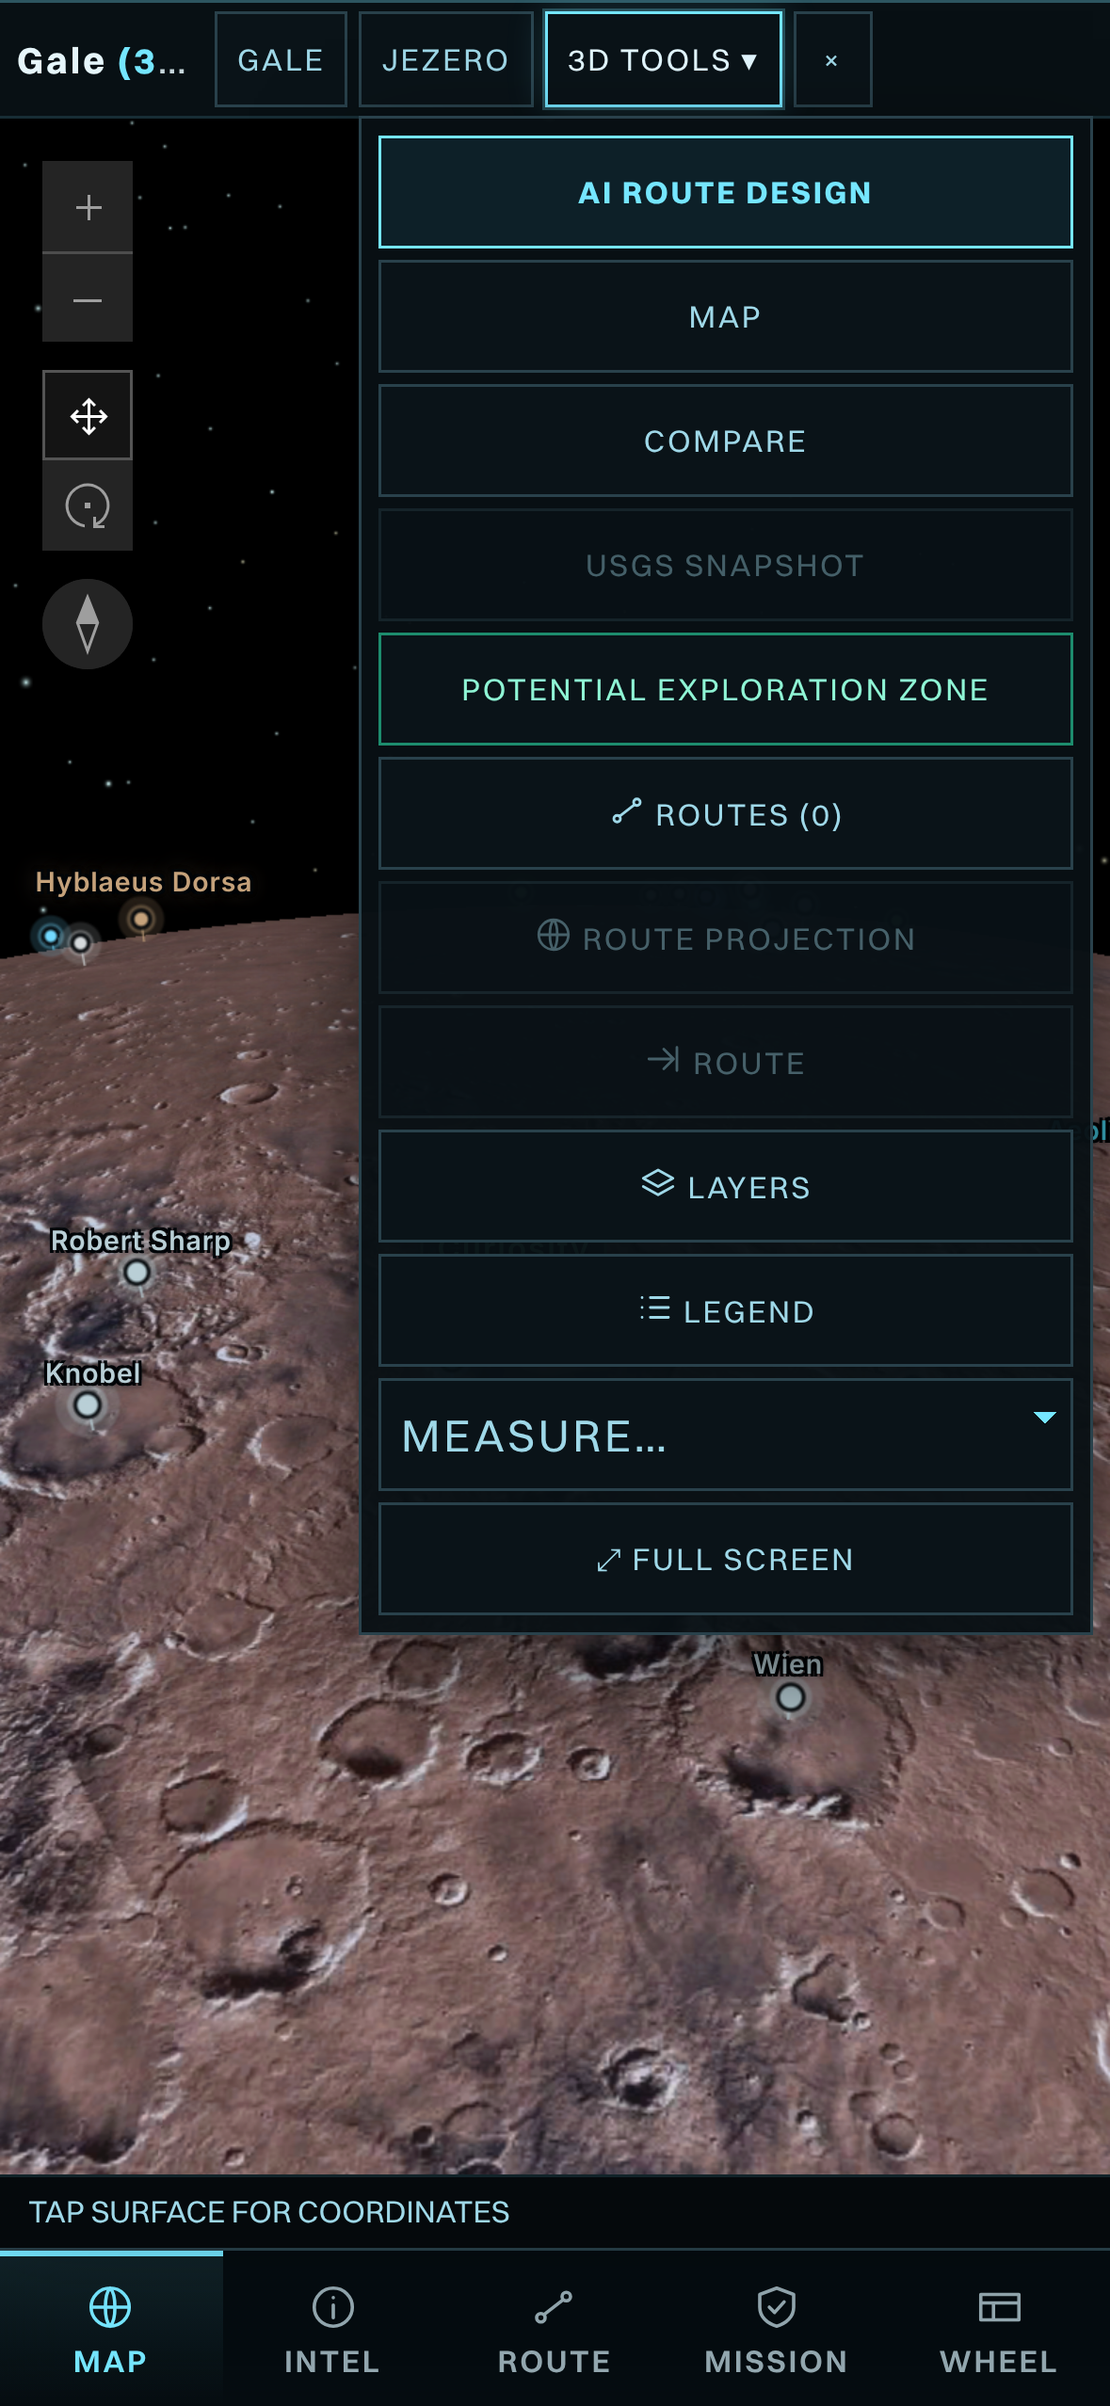
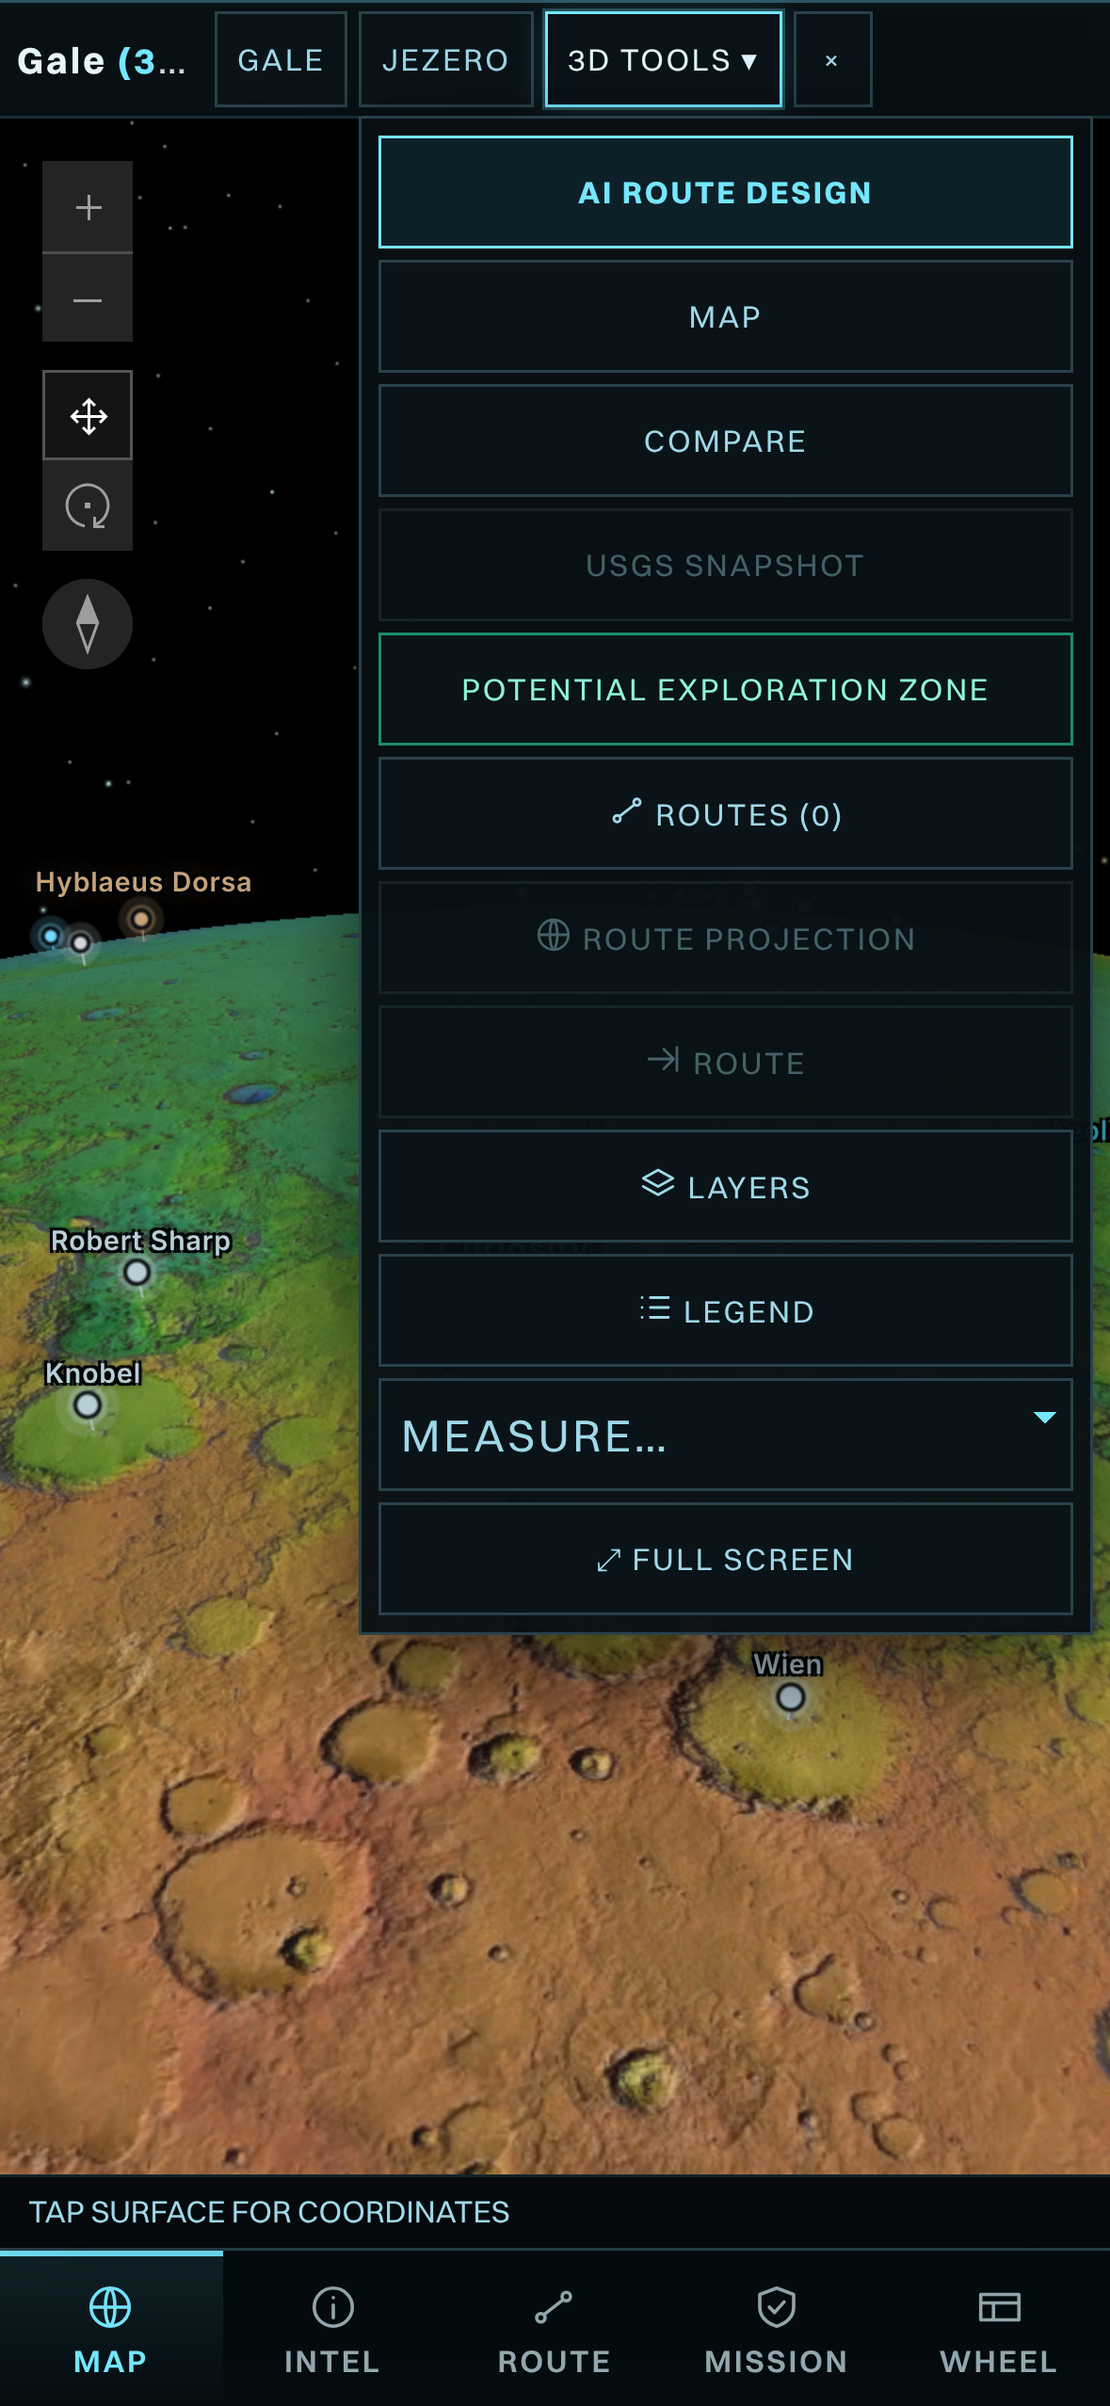
Install as app (PWA), sensitivity route fidelity, device checks and README
- Web app manifest, team-logo icons (192/512/maskable/apple-touch), app service worker
  that caches no data and shows an offline page; INSTALL AS APP in the menu, wheel and
  Command Index (iOS gets the Add to Home Screen steps)
- Sensitivity: shape-preserving Douglas-Peucker route simplification at the plan's fine
  resolution; a note when the re-evaluated status differs from the plan's
- Status reasons now name the slope limit when cells exceed it (regression test)
- Device e2e: shared layers across ArcGIS and 2D, multi-stop, sensitivity, tour, SOL card,
  installability; new screenshots; unit tests for the layer store, routePolyline, brief escaping

Claude-Session: https://claude.ai/code/session_01WGYgWxKKb8sWn1uuapz3HA

diff --git a/frontend/src/pwa/installStore.js b/frontend/src/pwa/installStore.js
@@ -1,0 +1,69 @@
+/*
+ * Install as app (PWA). Registers the app service worker in normal production builds (the static demo has its
+ * own) and keeps the browser's deferred install prompt so the menu, wheel and Command Index can offer INSTALL.
+ * iOS has no prompt: there the action explains Share -> Add to Home Screen.
+ */
+import { useSyncExternalStore } from "react";
+
+import { DEMO_PACK } from "../demo/demoMode";
+
+let deferred = null;
+let installed = false;
+const listeners = new Set();
+const emit = () => listeners.forEach((fn) => fn());
+
+const standalone = () =>
+  typeof window !== "undefined" &&
+  (window.matchMedia?.("(display-mode: standalone)").matches || window.navigator.standalone === true);
+
+export const isIos = () =>
+  typeof navigator !== "undefined" &&
+  (/iPad|iPhone|iPod/.test(navigator.userAgent) || (navigator.platform === "MacIntel" && navigator.maxTouchPoints > 1));
+
+if (typeof window !== "undefined") {
+  window.addEventListener("beforeinstallprompt", (event) => {
+    event.preventDefault();
+    deferred = event;
+    emit();
+  });
+  window.addEventListener("appinstalled", () => {
+    deferred = null;
+    installed = true;
+    emit();
+  });
+  if (import.meta.env.PROD && !DEMO_PACK && "serviceWorker" in navigator) {
+    window.addEventListener("load", () => navigator.serviceWorker.register("/app-sw.js").catch(() => {}));
+  }
+}
+
+let snap = null;
+function snapshot() {
+  const next = { canPrompt: Boolean(deferred), installed: installed || standalone(), ios: isIos() };
+  if (!snap || snap.canPrompt !== next.canPrompt || snap.installed !== next.installed || snap.ios !== next.ios) snap = next;
+  return snap;
+}
+
+export const installStore = {
+  get: snapshot,
+  subscribe(fn) {
+    listeners.add(fn);
+    return () => listeners.delete(fn);
+  },
+  /* Returns a message for the notice line, or "" when the browser's own dialog took over. */
+  async install() {
+    const s = snapshot();
+    if (s.installed) return "NeuroNexus is already installed as an app on this device.";
+    if (deferred) {
+      const event = deferred;
+      deferred = null;
+      emit();
+      await event.prompt();
+      const choice = await event.userChoice.catch(() => null);
+      return choice?.outcome === "accepted" ? "" : "Install dismissed. INSTALL APP stays in the menu.";
+    }
+    if (s.ios) return "On iPhone or iPad: tap Share, then Add to Home Screen.";
+    return "Use the browser menu: Install app (Chrome, Edge) or Add to Dock (Safari on macOS).";
+  },
+};
+
+export const useInstall = () => useSyncExternalStore(installStore.subscribe, installStore.get, installStore.get);

diff --git a/frontend/src/__tests__/sharedFeatures.test.js b/frontend/src/__tests__/sharedFeatures.test.js
@@ -1,0 +1,58 @@
+import { describe, expect, it } from "vitest";
+
+import { activeLayers, LAYER_BY_ID } from "../components/layers/layerCatalog";
+import { layerOpacity, layerStore } from "../components/layers/layerStore";
+import { routePolyline } from "../marswalk/decision";
+import { buildVisualBriefHtml } from "../marswalk/visualBrief";
+
+describe("shared layer store", () => {
+  it("one toggle reaches every map that can draw the layer", () => {
+    layerStore.setMany({ slope: false });
+    layerStore.toggle("slope");
+    const v = layerStore.get().visibility;
+    expect(v.slope).toBe(true);
+    for (const map of LAYER_BY_ID.slope.maps) expect(activeLayers(v, map).map((l) => l.id)).toContain("slope");
+  });
+
+  it("clamps opacity and ignores non-numbers", () => {
+    layerStore.setOpacity("slope", 4);
+    expect(layerOpacity("slope")).toBe(1);
+    layerStore.setOpacity("slope", 0);
+    expect(layerOpacity("slope")).toBe(0.05);
+    layerStore.setOpacity("slope", "x");
+    expect(layerOpacity("slope")).toBe(0.05);
+  });
+});
+
+describe("routePolyline", () => {
+  const zigzag = Array.from({ length: 2000 }, (_, i) => [137.38 + i * 1e-5, -4.82 + (i % 2) * 2e-5]);
+
+  it("keeps the endpoints and fits the 500-vertex evaluate cap", () => {
+    const line = routePolyline({ geometry: { coordinates: zigzag } });
+    expect(line.length).toBeLessThanOrEqual(480);
+    expect(line[0]).toEqual([-4.82, 137.38]);
+    expect(line.at(-1)).toEqual([Math.round(zigzag.at(-1)[1] * 1e6) / 1e6, Math.round(zigzag.at(-1)[0] * 1e6) / 1e6]);
+  });
+
+  it("keeps every vertex of a short route and drops a straight run to its ends", () => {
+    const short = [[137.38, -4.82], [137.381, -4.821], [137.382, -4.82]];
+    expect(routePolyline({ geometry: { coordinates: short } })).toHaveLength(3);
+    const straight = Array.from({ length: 900 }, (_, i) => [137.38 + i * 1e-5, -4.82]);
+    expect(routePolyline({ geometry: { coordinates: straight } })).toHaveLength(2);
+  });
+});
+
+describe("visual brief", () => {
+  it("escapes text from the plan and the brief", () => {
+    const html = buildVisualBriefHtml({
+      brief: { values: { "<b>x</b>": { value: "<script>", unit: "m" } }, sources: [] },
+      plan: { status: { value: "REVIEW REQUIRED", reasons: ["<img src=x onerror=1>"] }, geometry: { coordinates: [] }, segments: [] },
+      frame: { lat: -4.82, lon: 137.38, halfWidth: 1000, res: 2 },
+      siteLabel: "<Gale>",
+      stops: [],
+    });
+    expect(html).not.toMatch(/<script>|<img src=x/);
+    expect(html).toContain("&lt;Gale&gt;");
+    expect(html).not.toMatch(/\bSAFE\b/);
+  });
+});

diff --git a/frontend/src/marswalk/decision.js b/frontend/src/marswalk/decision.js
@@ -35,15 +35,49 @@ export function seasonStatuses(routeStatus, taus) {
 const round6 = (v) => Math.round(v * 1e6) / 1e6;
 
 /* The plan's route as an evaluate polyline: [lat, lon], at most `max` vertices, no repeated vertices. */
-export function routePolyline(plan, max = 400) {
+/* Douglas-Peucker on local metres: indices of the vertices kept within tol metres of the line. */
+function simplify(xy, tol) {
+  const keep = new Uint8Array(xy.length);
+  keep[0] = 1;
+  keep[xy.length - 1] = 1;
+  const stack = [[0, xy.length - 1]];
+  while (stack.length) {
+    const [a, b] = stack.pop();
+    const [ax, ay] = xy[a];
+    const dx = xy[b][0] - ax;
+    const dy = xy[b][1] - ay;
+    const len2 = dx * dx + dy * dy;
+    let worst = -1;
+    let at = -1;
+    for (let i = a + 1; i < b; i += 1) {
+      const t = len2 ? Math.max(0, Math.min(1, ((xy[i][0] - ax) * dx + (xy[i][1] - ay) * dy) / len2)) : 0;
+      const d = Math.hypot(xy[i][0] - ax - t * dx, xy[i][1] - ay - t * dy);
+      if (d > worst) [worst, at] = [d, i];
+    }
+    if (worst > tol) {
+      keep[at] = 1;
+      stack.push([a, at], [at, b]);
+    }
+  }
+  return xy.map((_, i) => i).filter((i) => keep[i]);
+}
+
+/*
+ * The plan's route as [lat, lon] vertices for /marswalk/evaluate (at most 500). Shape-preserving: the tolerance
+ * starts at 0.25 m and doubles only until the vertex count fits, so the re-evaluated line follows the planned one
+ * instead of cutting corners across steeper cells.
+ */
+export function routePolyline(plan, max = 480) {
   const coords = plan?.geometry?.coordinates ?? [];
   if (coords.length < 2) return [];
-  const step = Math.max(1, Math.ceil(coords.length / max));
-  const picked = coords.filter((_, i) => i % step === 0);
-  if (picked[picked.length - 1] !== coords[coords.length - 1]) picked.push(coords[coords.length - 1]);
+  const lat0 = (coords[0][1] * Math.PI) / 180;
+  const m = 3389500 * (Math.PI / 180);
+  const xy = coords.map(([lon, lat]) => [lon * m * Math.cos(lat0), lat * m]);
+  let idx = coords.map((_, i) => i);
+  for (let tol = 0.25; idx.length > max && tol < 1e4; tol *= 2) idx = simplify(xy, tol);
   const out = [];
-  for (const [lon, lat] of picked) {
-    const p = [round6(lat), round6(lon)];
+  for (const i of idx) {
+    const p = [round6(coords[i][1]), round6(coords[i][0])];
     const prev = out[out.length - 1];
     if (!prev || prev[0] !== p[0] || prev[1] !== p[1]) out.push(p);
   }

diff --git a/frontend/src/components/MissionManualDrawer.jsx b/frontend/src/components/MissionManualDrawer.jsx
@@ -2,6 +2,7 @@
 
 import { useEffect, useState } from "react";
 
+import { installStore, useInstall } from "../pwa/installStore";
 import { useSourceLedger } from "../sources/useSourceLedger";
 import SourceTag from "../sources/SourceTag";
 import { GUIDES, QUICK_STARTS } from "./manualContent";
@@ -10,6 +11,8 @@ import "../sources/sources.css";
 export default function MissionManualDrawer({ open, onClose, onQuickStart, onOpenSources, onOpenCommands, optimizationPanel, onStartTour }) {
   const ledger = useSourceLedger();
   const [status, setStatus] = useState({ state: "idle" });
+  const install = useInstall();
+  const [installMsg, setInstallMsg] = useState("");
 
   useEffect(() => {
     if (!open) return undefined;
@@ -54,6 +57,23 @@ export default function MissionManualDrawer({ open, onClose, onQuickStart, onOpe
                 <small>Three steps: pick a site, plan a Marswalk, read the decision and the status by sol. SKIP is always visible.</small>
               </button>
             )}
+            <button
+              type="button"
+              className="nn-manual-install"
+              data-quickstart="install-app"
+              disabled={install.installed}
+              onClick={async () => setInstallMsg(await installStore.install())}
+            >
+              <strong>{install.installed ? "Installed as an app" : "Install as app"}</strong>
+              <small>
+                {install.installed
+                  ? "Running in its own window on this device."
+                  : install.ios
+                    ? "iPhone and iPad: Share, then Add to Home Screen. Data still comes live from the server."
+                    : "Own window and home-screen icon on desktop, phone or tablet. Data still comes live from the server."}
+              </small>
+              {installMsg && <small className="nn-manual-install-msg" role="status">{installMsg}</small>}
+            </button>
             {QUICK_STARTS.map((q) => (
               <button key={q.id} type="button" onClick={() => onQuickStart(q.demo)} data-quickstart={q.id}>
                 <strong>{q.label}</strong>

diff --git a/frontend/src/marswalk/Sensitivity.jsx b/frontend/src/marswalk/Sensitivity.jsx
@@ -38,7 +38,7 @@ export default function Sensitivity({ plan, evaHours, mode, overrides, config, s
     const polyline = routePolyline(plan);
     if (!config || polyline.length < 2) return;
     setState({ key, rows: null, base: null, loading: true, error: "" });
-    const evaluate = (ov) => () => marswalkApi.evaluate({ polyline, eva_hours: evaHours, terrain_mode: mode, overrides: ov });
+    const evaluate = (ov) => () => marswalkApi.evaluate({ polyline, eva_hours: evaHours, terrain_mode: mode, overrides: ov, res_m: plan.method?.fine_res_m });
     try {
       const base = await evaluate({ ...overrides })();
       const params = sliders.filter(([k]) => config.bounds?.[k]);
@@ -95,6 +95,11 @@ export default function Sensitivity({ plan, evaHours, mode, overrides, config, s
           <p className="mw-dim">
             Same route at current settings: margin {fmtMin(current.base?.budget?.margin_h)} · {SHORT[baseStatus] ?? baseStatus ?? "n/a"}. Bars: change in margin at each bound.
           </p>
+          {baseStatus && plan.status?.value && baseStatus !== plan.status.value && (
+            <p className="mw-dim" data-testid="sens-mismatch">
+              Note: re-evaluating the route as a simplified line ({routePolyline(plan).length} vertices) gives {SHORT[baseStatus] ?? baseStatus}, while the plan reads {SHORT[plan.status.value] ?? plan.status.value}. Read the bars as relative changes.
+            </p>
+          )}
           <div className="mw-sens-rows">
             {current.rows.map((row) => (
               <div className="mw-sens-row" key={row.key}>

diff --git a/frontend/public/offline.html b/frontend/public/offline.html
@@ -1,0 +1,26 @@
+<!doctype html>
+<html lang="en">
+<head>
+<meta charset="utf-8" />
+<meta name="viewport" content="width=device-width, initial-scale=1" />
+<meta name="theme-color" content="#081014" />
+<title>NeuroNexus · Offline</title>
+<style>
+  body { margin: 0; min-height: 100vh; display: grid; place-items: center; background: #081014; color: #d8f6f8;
+    font: 15px/1.5 system-ui, -apple-system, "Segoe UI", sans-serif; padding: 16px; box-sizing: border-box; }
+  main { max-width: 420px; text-align: center; }
+  img { width: 96px; height: 96px; border-radius: 18px; }
+  h1 { font-size: 18px; letter-spacing: 0.08em; color: #24e3ef; }
+  button { margin-top: 12px; background: #0e2a30; color: #d8f6f8; border: 1px solid #24e3ef; border-radius: 6px;
+    padding: 8px 16px; font: inherit; letter-spacing: 0.06em; cursor: pointer; }
+</style>
+</head>
+<body>
+<main>
+  <img src="/pwa/icon-192.png" alt="NeuroNexus" />
+  <h1>NO CONNECTION</h1>
+  <p>The console reads NASA mission data from its server on every view, so it needs a connection. No cached values are shown offline.</p>
+  <button type="button" onclick="location.reload()">RETRY</button>
+</main>
+</body>
+</html>

diff --git a/frontend/public/app-sw.js b/frontend/public/app-sw.js
@@ -1,0 +1,30 @@
+/*
+ * Installable-app service worker (normal builds; the static demo uses demo-sw.js instead). It does not cache
+ * data: the console needs its API for every number. Page loads go to the network; only when the network is
+ * unreachable does it show the offline page, so a stale value is never presented as current.
+ */
+const SHELL = "nn-shell-v1";
+const OFFLINE = "/offline.html";
+
+self.addEventListener("install", (event) => {
+  event.waitUntil(
+    caches
+      .open(SHELL)
+      .then((cache) => cache.addAll([OFFLINE, "/pwa/icon-192.png"]))
+      .then(() => self.skipWaiting()),
+  );
+});
+
+self.addEventListener("activate", (event) => {
+  event.waitUntil(
+    caches
+      .keys()
+      .then((keys) => Promise.all(keys.filter((k) => k.startsWith("nn-shell-") && k !== SHELL).map((k) => caches.delete(k))))
+      .then(() => self.clients.claim()),
+  );
+});
+
+self.addEventListener("fetch", (event) => {
+  if (event.request.mode !== "navigate") return;
+  event.respondWith(fetch(event.request).catch(async () => (await caches.match(OFFLINE)) ?? Response.error()));
+});

diff --git a/frontend/src/features/consoleHandlers.js b/frontend/src/features/consoleHandlers.js
@@ -5,6 +5,7 @@
 
 import { exportEvaBrief, exportGeoJson, exportProfileCsv, exportValidation } from "../exports/actions";
 import { planStore } from "../marswalk/planStore";
+import { installStore } from "../pwa/installStore";
 import { perfStore } from "../perf/perfStore";
 import { solSnapshot } from "../state/solStore";
 
@@ -74,6 +75,7 @@ export function buildConsoleHandlers(ctx) {
       available: () => (planStore.get().plan ? true : "Plan a Marswalk first"),
     },
     "judge-tour": { run: () => startTour?.() },
+    "install-app": { run: run(() => installStore.install()) },
     "verify-plan": { run: () => toMarswalk({ type: "verify" }), available: () => (planStore.get().plan ? true : "Plan a Marswalk first") },
     "export-eva-brief": { run: run(exportEvaBrief), available: () => (planStore.get().plan ? true : "Plan a Marswalk first") },
     "export-geojson": { run: run(exportGeoJson), available: () => (planStore.get().plan ? true : "Plan a Marswalk first") },

diff --git a/frontend/index.html b/frontend/index.html
@@ -2,7 +2,9 @@
 <html lang="en">
   <head>
     <meta charset="UTF-8" />
-    <link rel="icon" type="image/svg+xml" href="/favicon.svg" />
+    <link rel="icon" type="image/png" sizes="192x192" href="/pwa/icon-192.png" />
+    <link rel="apple-touch-icon" href="/pwa/apple-touch-icon.png" />
+    <link rel="manifest" href="/manifest.webmanifest" />
     <meta name="viewport" content="width=device-width, initial-scale=1.0, maximum-scale=5.0, viewport-fit=cover" />
     <meta name="theme-color" content="#081014" />
     <meta name="apple-mobile-web-app-capable" content="yes" />

diff --git a/frontend/src/ui/ui.css b/frontend/src/ui/ui.css
@@ -1742,6 +1742,7 @@ label:has(> .m3d-layer-tag) { flex-wrap: wrap; }
   box-shadow: 0 12px 30px rgba(0, 0, 0, 0.55);
 }
 .nn-manual-tour { border-color: var(--nn-cyan) !important; }
+.nn-manual-install-msg { color: var(--nn-cyan); }
 @media (max-width: 767px) {
   .nn-tour { left: 8px; right: 8px; width: auto; bottom: calc(var(--nn-dock-h, 56px) + 8px); }
   .nn-tour-hint { top: auto; bottom: calc(var(--nn-dock-h, 56px) + 8px); flex-wrap: wrap; justify-content: center; }

diff --git a/frontend/src/main.jsx b/frontend/src/main.jsx
@@ -2,6 +2,7 @@ import { StrictMode } from 'react'
 import { createRoot } from 'react-dom/client'
 import './index.css'
 import './utils/leafletGuards.js'
+import './pwa/installStore.js'
 import App from './App.jsx'
 import ErrorBoundary from './ui/ErrorBoundary.jsx'
 import DemoBanner from './demo/DemoBanner.jsx'

diff --git a/frontend/src/components/wheel/wheelModel.js b/frontend/src/components/wheel/wheelModel.js
@@ -55,6 +55,7 @@ export const WHEEL = [
     { id: "command-index", label: "COMMAND INDEX" },
     { id: "backend-status", label: "DATA STATUS" },
     { id: "judge-tour", label: "JUDGE TOUR" },
+    { id: "install-app", label: "INSTALL APP" },
   ] },
 ];
 
